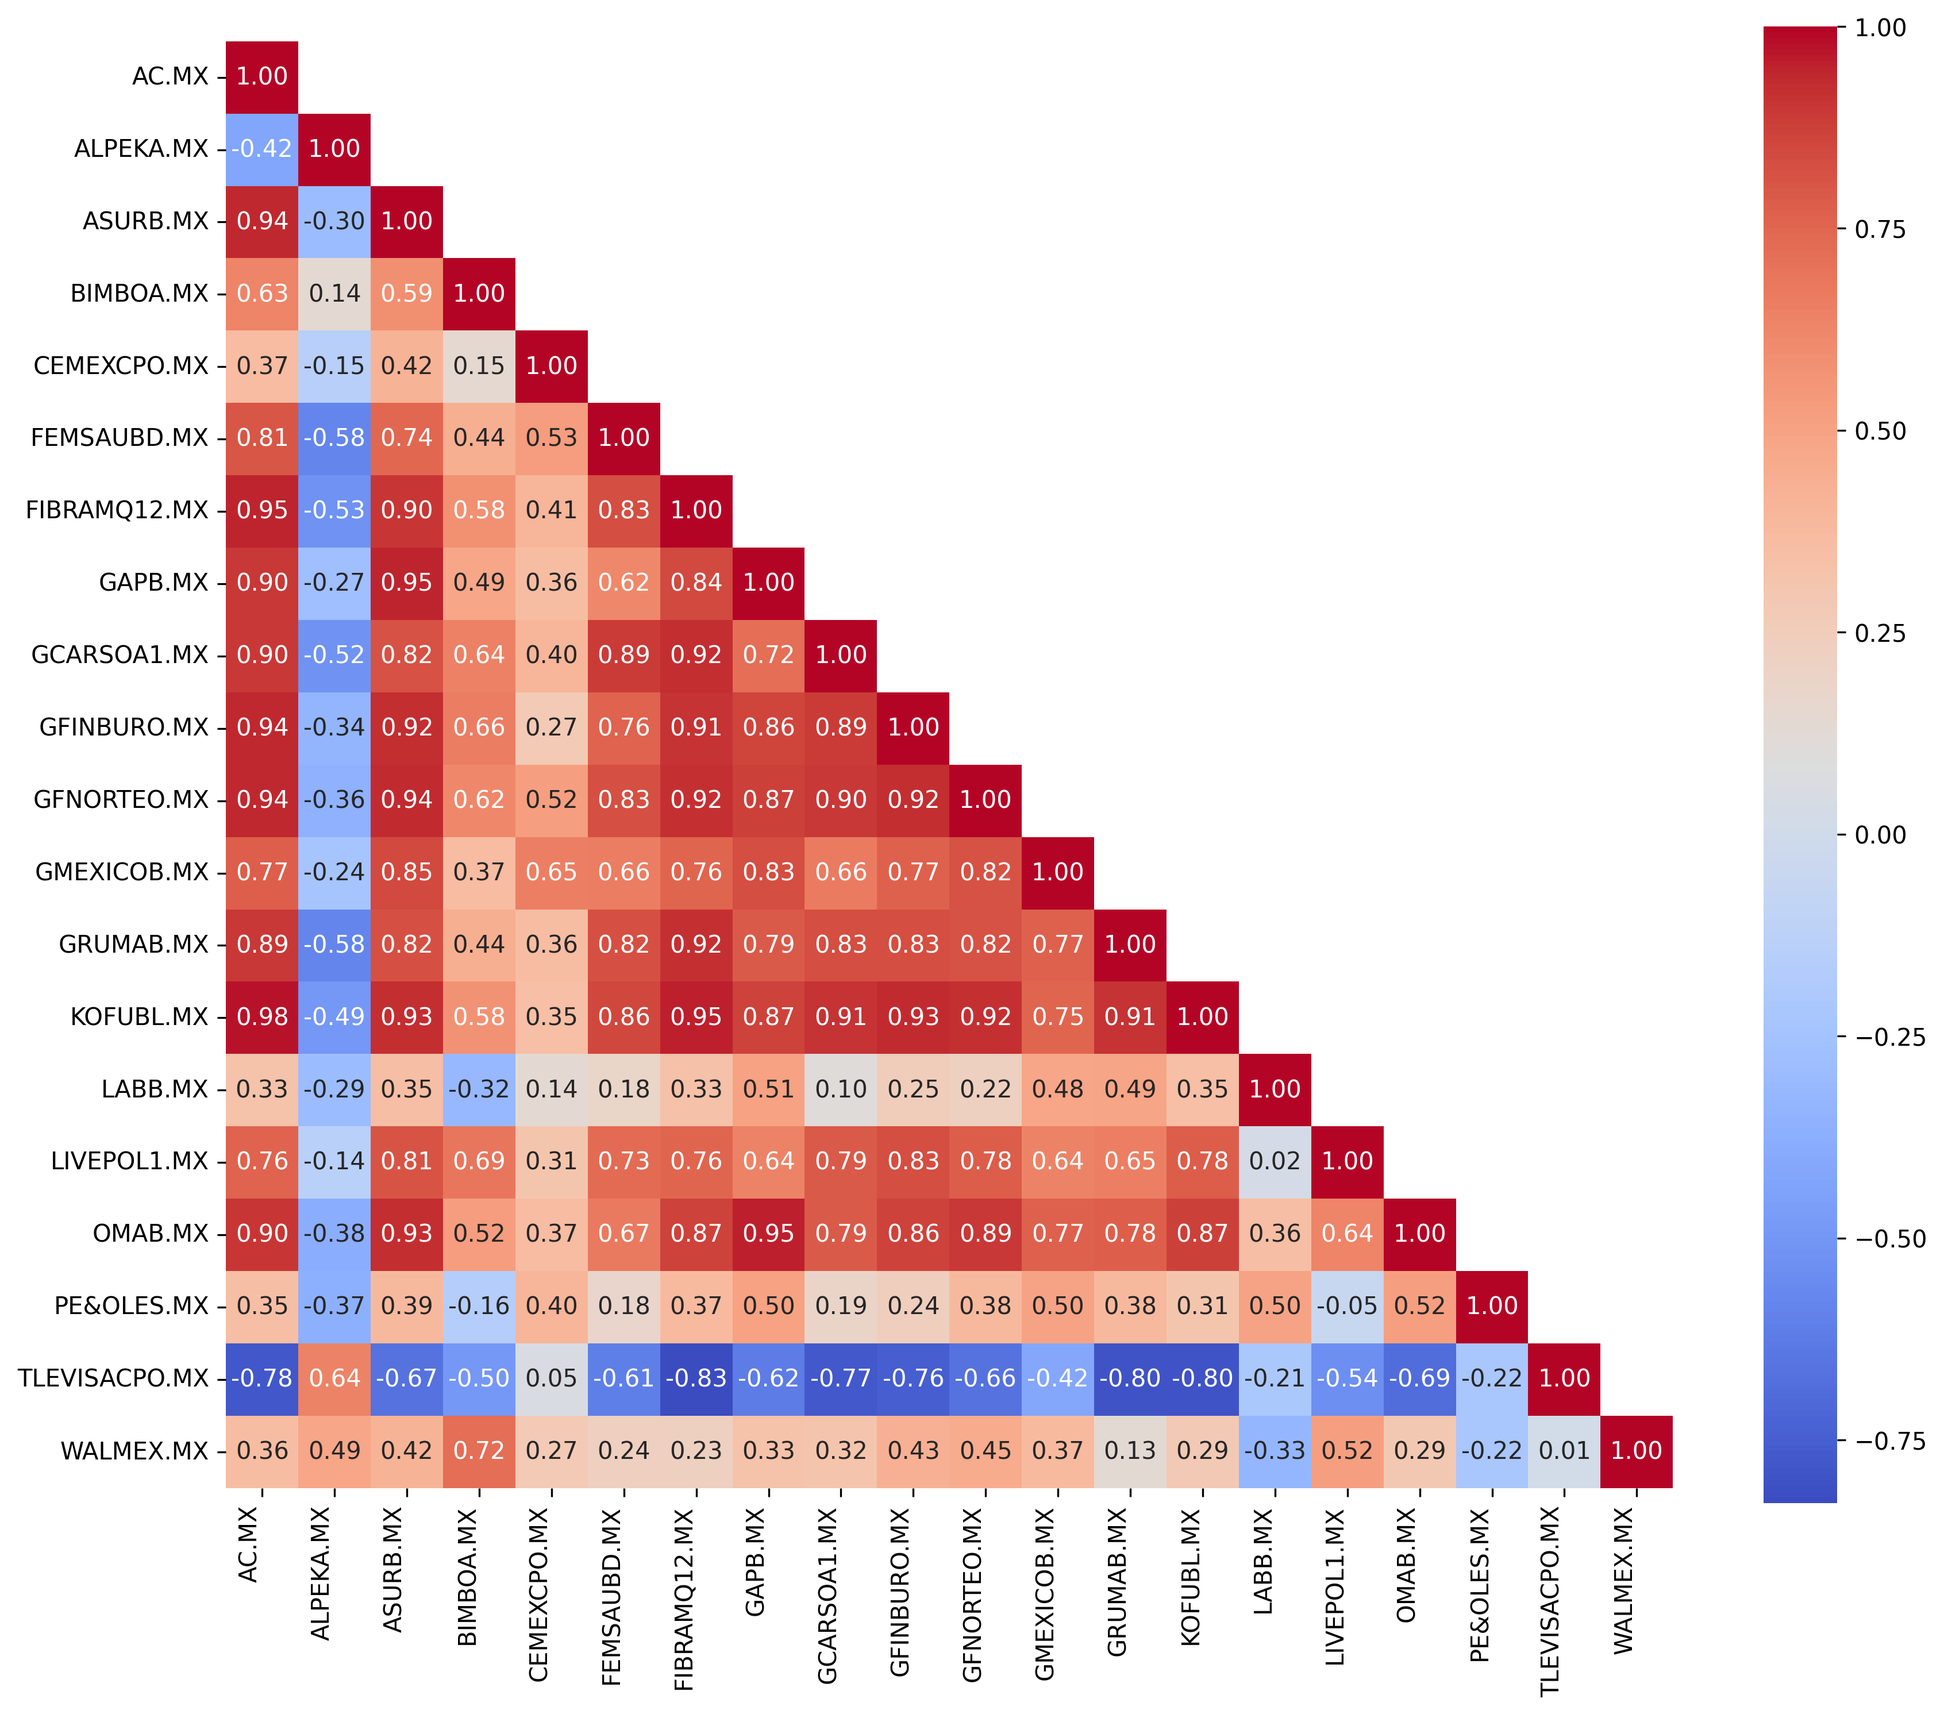
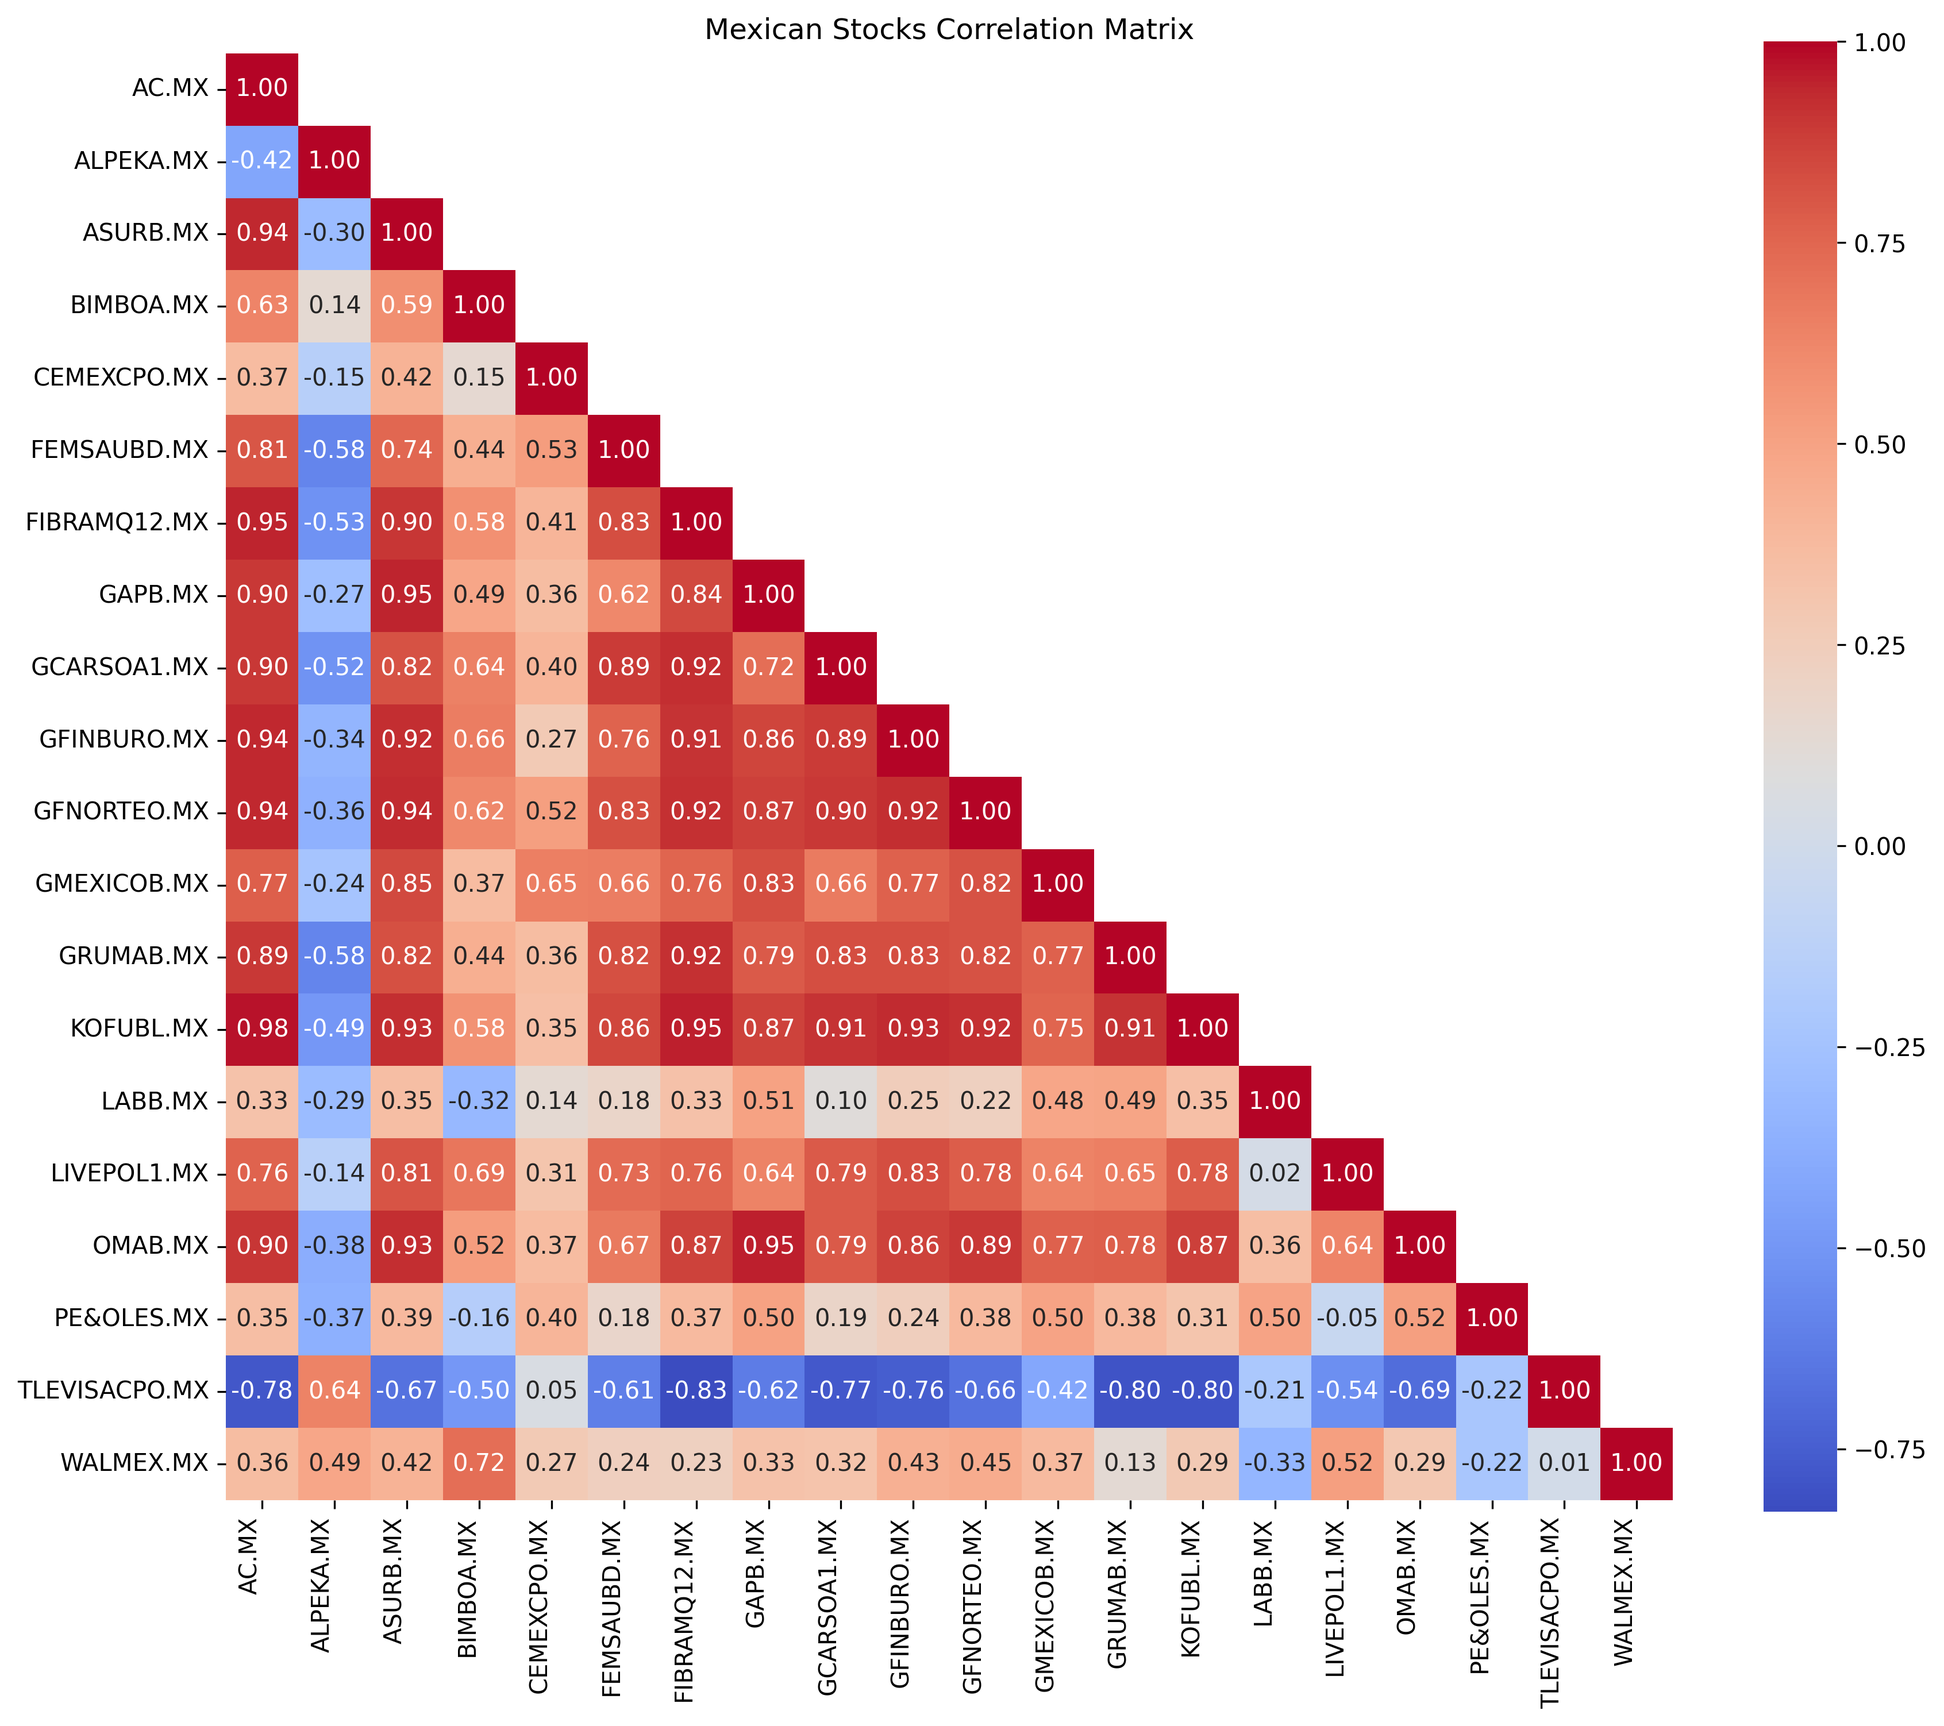
refactor basic_data_analysis to make testing easier

diff --git a/basic_data_analysis.py b/basic_data_analysis.py
@@ -1,6 +1,5 @@
 import yfinance as yf
 import polars as pl
-import pandas as pd
 import matplotlib.pyplot as plt
 import seaborn as sns
 import numpy as np
@@ -8,156 +7,229 @@ import polars.selectors as cs
 from sklearn.cluster import KMeans
 from sklearn.linear_model import LinearRegression
 from sklearn.metrics import mean_squared_error, r2_score
+import os
 
-## Selected stocks with their respective sectors
+# Create visualizations directory if it doesn't exist  
+os.makedirs('visualizations', exist_ok=True)
 
-mexican_stocks =  [
-            # Financial Sector (Peso GFNORTE, BBVA, Santander, Inbursa)
-            'GFNORTEO.MX',    # Grupo Financiero Banorte - Leading Mexican bank
-            'GFINBURO.MX',    # Grupo Financiero Inbursa - Carlos Slim's bank
-            
-            # Retail & Consumer Staples
-            'WALMEX.MX',      # Wal-Mart de México - Largest retailer
-            'BIMBOA.MX',      # Grupo Bimbo - Global bakery leader
-            'FEMSAUBD.MX',     # Fomento Económico Mexicano - FEMSA conglomerate
-            'KOFUBL.MX',      # Coca-Cola FEMSA - Largest Coke bottler in LatAm
-            'AC.MX',          # Arca Continental - Coca-Cola bottler
-            'LIVEPOL1.MX',    # Liverpool - Premium department stores
-            
-            # Telecommunications & Media
-            'TLEVISACPO.MX',  # Grupo Televisa - Media conglomerate
-            
-            # Materials & Mining (Commodity Exposure)
-            'CEMEXCPO.MX',    # Cemex - Global cement giant
-            'GMEXICOB.MX',    # Grupo México - Mining and transportation
-            'PE&OLES.MX',     # Industrias Peñoles - Precious metals
-            'ALPEKA.MX',      # Alfa - Industrial conglomerate
-            
-            # Transportation & Infrastructure
-            'GAPB.MX',        # Grupo Aeroportuario del Pacífico - Airport operator
-            'OMAB.MX',        # Grupo Aeroportuario del Centro Norte - Airports
-            'ASURB.MX',       # Grupo Aeroportuario del Sureste - Airport group
-            
-            # Real Estate Investment Trusts (FIBRAs)
-            'FIBRAMQ12.MX',    # Fibra Mty - Industrial real estate
-            
-            # Healthcare & Consumer Discretionary
-            'LABB.MX',        # Genomma Lab Internacional - Pharma & personal care
-            'GCARSOA1.MX',     # Grupo Carso - Retail and industrial conglomerate
-            
-            # Additional Diversification
-            'GRUMAB.MX',      # Grupo Financiero Multiva
-        ]
+def get_mexican_stock_symbols():
+    """Return list of Mexican stock symbols for analysis."""
+    return [
+        'GFNORTEO.MX', 'GFINBURO.MX', 'WALMEX.MX', 'BIMBOA.MX', 
+        'FEMSAUBD.MX', 'KOFUBL.MX', 'AC.MX', 'LIVEPOL1.MX',
+        'TLEVISACPO.MX', 'CEMEXCPO.MX', 'GMEXICOB.MX', 'PE&OLES.MX',
+        'ALPEKA.MX', 'GAPB.MX', 'OMAB.MX', 'ASURB.MX',
+        'FIBRAMQ12.MX', 'LABB.MX', 'GCARSOA1.MX', 'GRUMAB.MX'
+    ]
 
+def download_stock_data(symbols, start_date="2020-01-01", end_date="2025-09-05"):
+    """Download stock data for given symbols and date range."""
+    if not symbols:
+        raise ValueError("Symbols list cannot be empty")
+    
+    raw_data = yf.download(symbols, start_date, end_date)
+    if raw_data.empty:
+        raise ValueError("No data downloaded for given symbols and date range")
+    
+    return raw_data
 
-raw_data = yf.download(mexican_stocks, "2020-01-01", "2025-09-05")
-df = pl.from_pandas(raw_data,include_index=True)
+def extract_close_prices(raw_data):
+    """Extract close prices from raw yfinance data and return as Polars DataFrame."""
+    df = pl.from_pandas(raw_data, include_index=True)
+    
+    # Only keep the 'Close' prices
+    df = df.select(
+        pl.col('Date'),
+        cs.starts_with("('Close'").name.map(lambda col_name: col_name.split("', '")[1].rstrip("')"))
+    )
+    
+    return df
 
-print(df.head())
-print(df.columns)
-print(df.describe())
+def calculate_correlation_matrix(df):
+    """Calculate correlation matrix from price DataFrame."""
+    if df.shape[1] < 2:
+        raise ValueError("DataFrame must have at least 2 columns for correlation")
+    
+    # Remove Date column for correlation calculation
+    price_columns = [col for col in df.columns if col != 'Date']
+    corr_matrix = df.select(price_columns).corr()
+    
+    return corr_matrix
 
-# Basic Filtering and Grouping
-## Only keep the 'Close' prices
-df  = df.select(
-    pl.col('Date'),
-    cs.starts_with("('Close'").name.map(lambda col_name: col_name.split("', '")[1].rstrip("')"))
-)
+def find_optimal_clusters(corr_matrix, max_k=8):
+    """Find optimal number of clusters using elbow method."""
+    inertias = []
+    k_range = range(2, max_k)
+    
+    for k in k_range:
+        kmeans = KMeans(n_clusters=k, random_state=42)
+        kmeans.fit(corr_matrix)
+        inertias.append(kmeans.inertia_)
+    
+    return list(k_range), inertias
 
-print('Verifying Close Prices DataFrame:')
-print(df.head())
-print(df.columns)
-print(df.describe())
-
-
-corr_matrix = df.select(df.columns[1:]).corr()
-mask = np.triu(np.ones_like(corr_matrix), k=1)
-
-plt.figure(figsize=(12, 10))
-sns.heatmap(corr_matrix, 
-            mask=mask, 
-            annot=True, 
-            fmt=".2f", 
-            cmap="coolwarm",
-            square=True)
-plt.xticks(rotation=90, ha='right',ticks=np.arange(len(corr_matrix.columns))+0.5, labels=corr_matrix.columns)
-plt.yticks(rotation=0, ticks=np.arange(len(corr_matrix.columns))+0.5, labels=corr_matrix.columns)
-plt.tight_layout()
-plt.savefig('visualizations/stock_correlation.png', dpi=300, bbox_inches='tight')
-
-inertias = []
-for k in range(2, 8):
-    kmeans = KMeans(n_clusters=k, random_state=42)
+def perform_kmeans_clustering(corr_matrix, n_clusters=4, random_state=42):
+    """Perform K-means clustering on correlation matrix."""
+    if n_clusters < 1:
+        raise ValueError("Number of clusters must be positive")
+    if n_clusters > corr_matrix.shape[0]:
+        raise ValueError("Number of clusters cannot exceed number of stocks")
+    
+    kmeans = KMeans(n_clusters=n_clusters, random_state=random_state)
     kmeans.fit(corr_matrix)
-    inertias.append(kmeans.inertia_)
-plt.figure(figsize=(12, 10))
-plt.plot(range(2, 8), inertias, 'bo-')
-plt.xlabel('Number of Clusters (k)')
-plt.ylabel('Inertia (WCSS)')
-plt.title('Elbow Method for Optimal k')
-plt.savefig('visualizations/elbow.png', dpi=300, bbox_inches='tight')
+    
+    # Create cluster groups
+    cluster_groups = {}
+    for stock, cluster in zip(corr_matrix.columns, kmeans.labels_):
+        if cluster not in cluster_groups:
+            cluster_groups[cluster] = []
+        cluster_groups[cluster].append(stock)
+    
+    return kmeans, cluster_groups
 
-# From the elbow plot, we choose k=4
-kmeans = KMeans(n_clusters=4, random_state=42)
-kmeans.fit(corr_matrix)
+def calculate_returns(df, stock1_col, stock2_col):
+    """Calculate returns for two stocks."""
+    df_returns = df.select([
+        pl.col('Date'),
+        (pl.col(stock1_col).pct_change()).alias(f'{stock1_col}_returns'),
+        (pl.col(stock2_col).pct_change()).alias(f'{stock2_col}_returns')
+    ]).drop_nulls()
+    
+    return df_returns
 
-cluster_groups = {}
-for stock, cluster in zip(corr_matrix.columns, kmeans.labels_):
-    if cluster not in cluster_groups:
-        cluster_groups[cluster] = []
-    cluster_groups[cluster].append(stock)
+def build_linear_model(df_returns, predictor_col, target_col, test_size=30):
+    """Build linear regression model to predict one stock from another."""
+    if len(df_returns) <= test_size:
+        raise ValueError("Not enough data for train/test split")
+    
+    # Create train/test split
+    n_train = len(df_returns) - test_size
+    
+    X_train = df_returns[predictor_col][:n_train].to_numpy().reshape(-1, 1)
+    y_train = df_returns[target_col][:n_train].to_numpy()
+    
+    X_test = df_returns[predictor_col][n_train:].to_numpy().reshape(-1, 1)
+    y_test = df_returns[target_col][n_train:].to_numpy()
+    
+    # Fit model
+    model = LinearRegression()
+    model.fit(X_train, y_train)
+    
+    # Predictions and metrics
+    y_pred = model.predict(X_test)
+    mse = mean_squared_error(y_test, y_pred)
+    r2 = r2_score(y_test, y_pred)
+    
+    return {
+        'model': model,
+        'mse': mse,
+        'r2': r2,
+        'coefficient': model.coef_[0],
+        'intercept': model.intercept_,
+        'X_test': X_test,
+        'y_test': y_test,
+        'y_pred': y_pred
+    }
 
-# Create a more readable format
-print("Mexican Stock Correlation Clusters")
-print("=" * 50)
-for cluster_id in sorted(cluster_groups.keys()):
-    print(f"\nCluster {cluster_id} ({len(cluster_groups[cluster_id])} stocks):")
-    print("-" * 30)
-    for stock in sorted(cluster_groups[cluster_id]):
-        print(f"  • {stock}")
+def create_correlation_heatmap(corr_matrix, save_path=None):
+    """Create and optionally save correlation heatmap."""
+    mask = np.triu(np.ones_like(corr_matrix), k=1)
+    
+    plt.figure(figsize=(12, 10))
+    sns.heatmap(corr_matrix, 
+                mask=mask, 
+                annot=True, 
+                fmt=".2f", 
+                cmap="coolwarm",
+                square=True)
+    plt.xticks(rotation=90, ha='right', ticks=np.arange(len(corr_matrix.columns))+0.5, labels=corr_matrix.columns)
+    plt.yticks(rotation=0, ticks=np.arange(len(corr_matrix.columns))+0.5, labels=corr_matrix.columns)
+    plt.title('Mexican Stocks Correlation Matrix')
+    plt.tight_layout()
+    
+    if save_path:
+        plt.savefig(save_path, dpi=300, bbox_inches='tight')
+    
+    plt.show()
 
+def create_elbow_plot(k_range, inertias, save_path=None):
+    """Create and optionally save elbow plot."""
+    plt.figure(figsize=(10, 6))
+    plt.plot(k_range, inertias, 'bo-')
+    plt.xlabel('Number of Clusters (k)')
+    plt.ylabel('Inertia (WCSS)')
+    plt.title('Elbow Method for Optimal k')
+    plt.grid(True, alpha=0.3)
+    
+    if save_path:
+        plt.savefig(save_path, dpi=300, bbox_inches='tight')
+    
+    plt.show()
 
-## Forecasting Cluster 2 (Consumer Staples - 2 stocks): BIMBOA.MX (Grupo Bimbo - food) + WALMEX.MX (Walmart México - retail)
+def create_returns_plot(df_returns, stock1_col, stock2_col, save_path=None):
+    """Create and optionally save returns time series plot."""
+    plt.figure(figsize=(12, 6))
+    sns.lineplot(data=df_returns, x='Date', y=f'{stock1_col}_returns', label=f'{stock1_col}')
+    sns.lineplot(data=df_returns, x='Date', y=f'{stock2_col}_returns', label=f'{stock2_col}')
+    plt.title(f'Stock Returns Over Time: {stock1_col} vs {stock2_col}')
+    plt.xlabel('Date')
+    plt.ylabel('Daily Returns')
+    plt.legend()
+    plt.grid(True, alpha=0.3)
+    plt.xticks(rotation=45)
+    plt.tight_layout()
+    
+    if save_path:
+        plt.savefig(save_path, dpi=300, bbox_inches='tight')
+    
+    plt.show()
 
-#It is usually better to model returns than prices
-df_returns = df.select([
-    pl.col('Date'),
-    (pl.col('WALMEX.MX').pct_change()).alias('WALMEX_returns'),
-    (pl.col('BIMBOA.MX').pct_change()).alias('BIMBOA_returns')
-]).drop_nulls()
+def print_cluster_results(cluster_groups):
+    """Print clustering results in a formatted way."""
+    print("Mexican Stock Correlation Clusters")
+    print("=" * 50)
+    for cluster_id in sorted(cluster_groups.keys()):
+        print(f"\nCluster {cluster_id} ({len(cluster_groups[cluster_id])} stocks):")
+        print("-" * 30)
+        for stock in sorted(cluster_groups[cluster_id]):
+            print(f"  • {stock}")
 
-plt.figure(figsize=(12, 10))
-sns.lineplot(data=df_returns, x='Date', y='BIMBOA_returns', label='BIMBOA_returns')
-sns.lineplot(data=df_returns, x='Date', y='WALMEX_returns', label='WALMEX_returns')
-plt.title('Stock Returns Over Time for Cluster 2')
-plt.xlabel('Date')
-plt.ylabel('Returns')
-plt.savefig('visualizations/stock_returns.png', dpi=300, bbox_inches='tight')
+def print_model_results(model_results, predictor_name, target_name):
+    """Print linear model results in a formatted way."""
+    print(f"Predicting {target_name} using {predictor_name}:")
+    print(f"MSE: {model_results['mse']:.6f}")
+    print(f"R²: {model_results['r2']:.3f}")
+    print(f"Equation: {target_name} = {model_results['coefficient']:.3f} * {predictor_name} + {model_results['intercept']:.3f}")
 
-# Create train/test split (last 30 days for testing)
-n_test = 30
-n_train = len(df) - n_test
+def main():
+    """Main analysis pipeline."""
+    # Get data
+    mexican_stocks = get_mexican_stock_symbols()
+    raw_data = download_stock_data(mexican_stocks)
+    df = extract_close_prices(raw_data)
+    
+    print("Basic Data Info:")
+    print(df.head())
+    print(f"Columns: {df.columns}")
+    print(f"Shape: {df.shape}")
+    
+    # Correlation analysis
+    corr_matrix = calculate_correlation_matrix(df)
+    create_correlation_heatmap(corr_matrix, 'visualizations/stock_correlation.png')
+    
+    # Clustering
+    k_range, inertias = find_optimal_clusters(corr_matrix)
+    create_elbow_plot(k_range, inertias, 'visualizations/elbow.png')
+    
+    kmeans, cluster_groups = perform_kmeans_clustering(corr_matrix)
+    print_cluster_results(cluster_groups)
+    
+    # Time series modeling (Cluster 2: Consumer Staples)
+    df_returns = calculate_returns(df, 'WALMEX.MX', 'BIMBOA.MX')
+    create_returns_plot(df_returns, 'WALMEX.MX', 'BIMBOA.MX', 'visualizations/stock_returns.png')
+    
+    model_results = build_linear_model(df_returns, 'WALMEX.MX_returns', 'BIMBOA.MX_returns')
+    print_model_results(model_results, 'WALMEX', 'BIMBOA')
 
-# Extract data using Polars syntax
-X_train = df_returns['WALMEX_returns'][:n_train].to_numpy().reshape(-1, 1)
-y_train = df_returns['BIMBOA_returns'][:n_train].to_numpy()
-
-X_test = df_returns['WALMEX_returns'][n_train:].to_numpy().reshape(-1, 1)
-y_test = df_returns['BIMBOA_returns'][n_train:].to_numpy()
-
-# Fit model
-stock_model = LinearRegression()
-stock_model.fit(X_train, y_train)
-
-# Predictions
-y_pred = stock_model.predict(X_test)
-
-# Metrics
-mse = mean_squared_error(y_test, y_pred)
-r2 = r2_score(y_test, y_pred)
-
-print(f"Predicting BIMBOA using WALMEX:")
-print(f"MSE: {mse:.2f}")
-print(f"R²: {r2:.2f}")
-print(f"Equation: BIMBOA = {stock_model.coef_[0]:.3f} * WALMEX + {stock_model.intercept_:.3f}")
-
+if __name__ == "__main__":
+    main()
